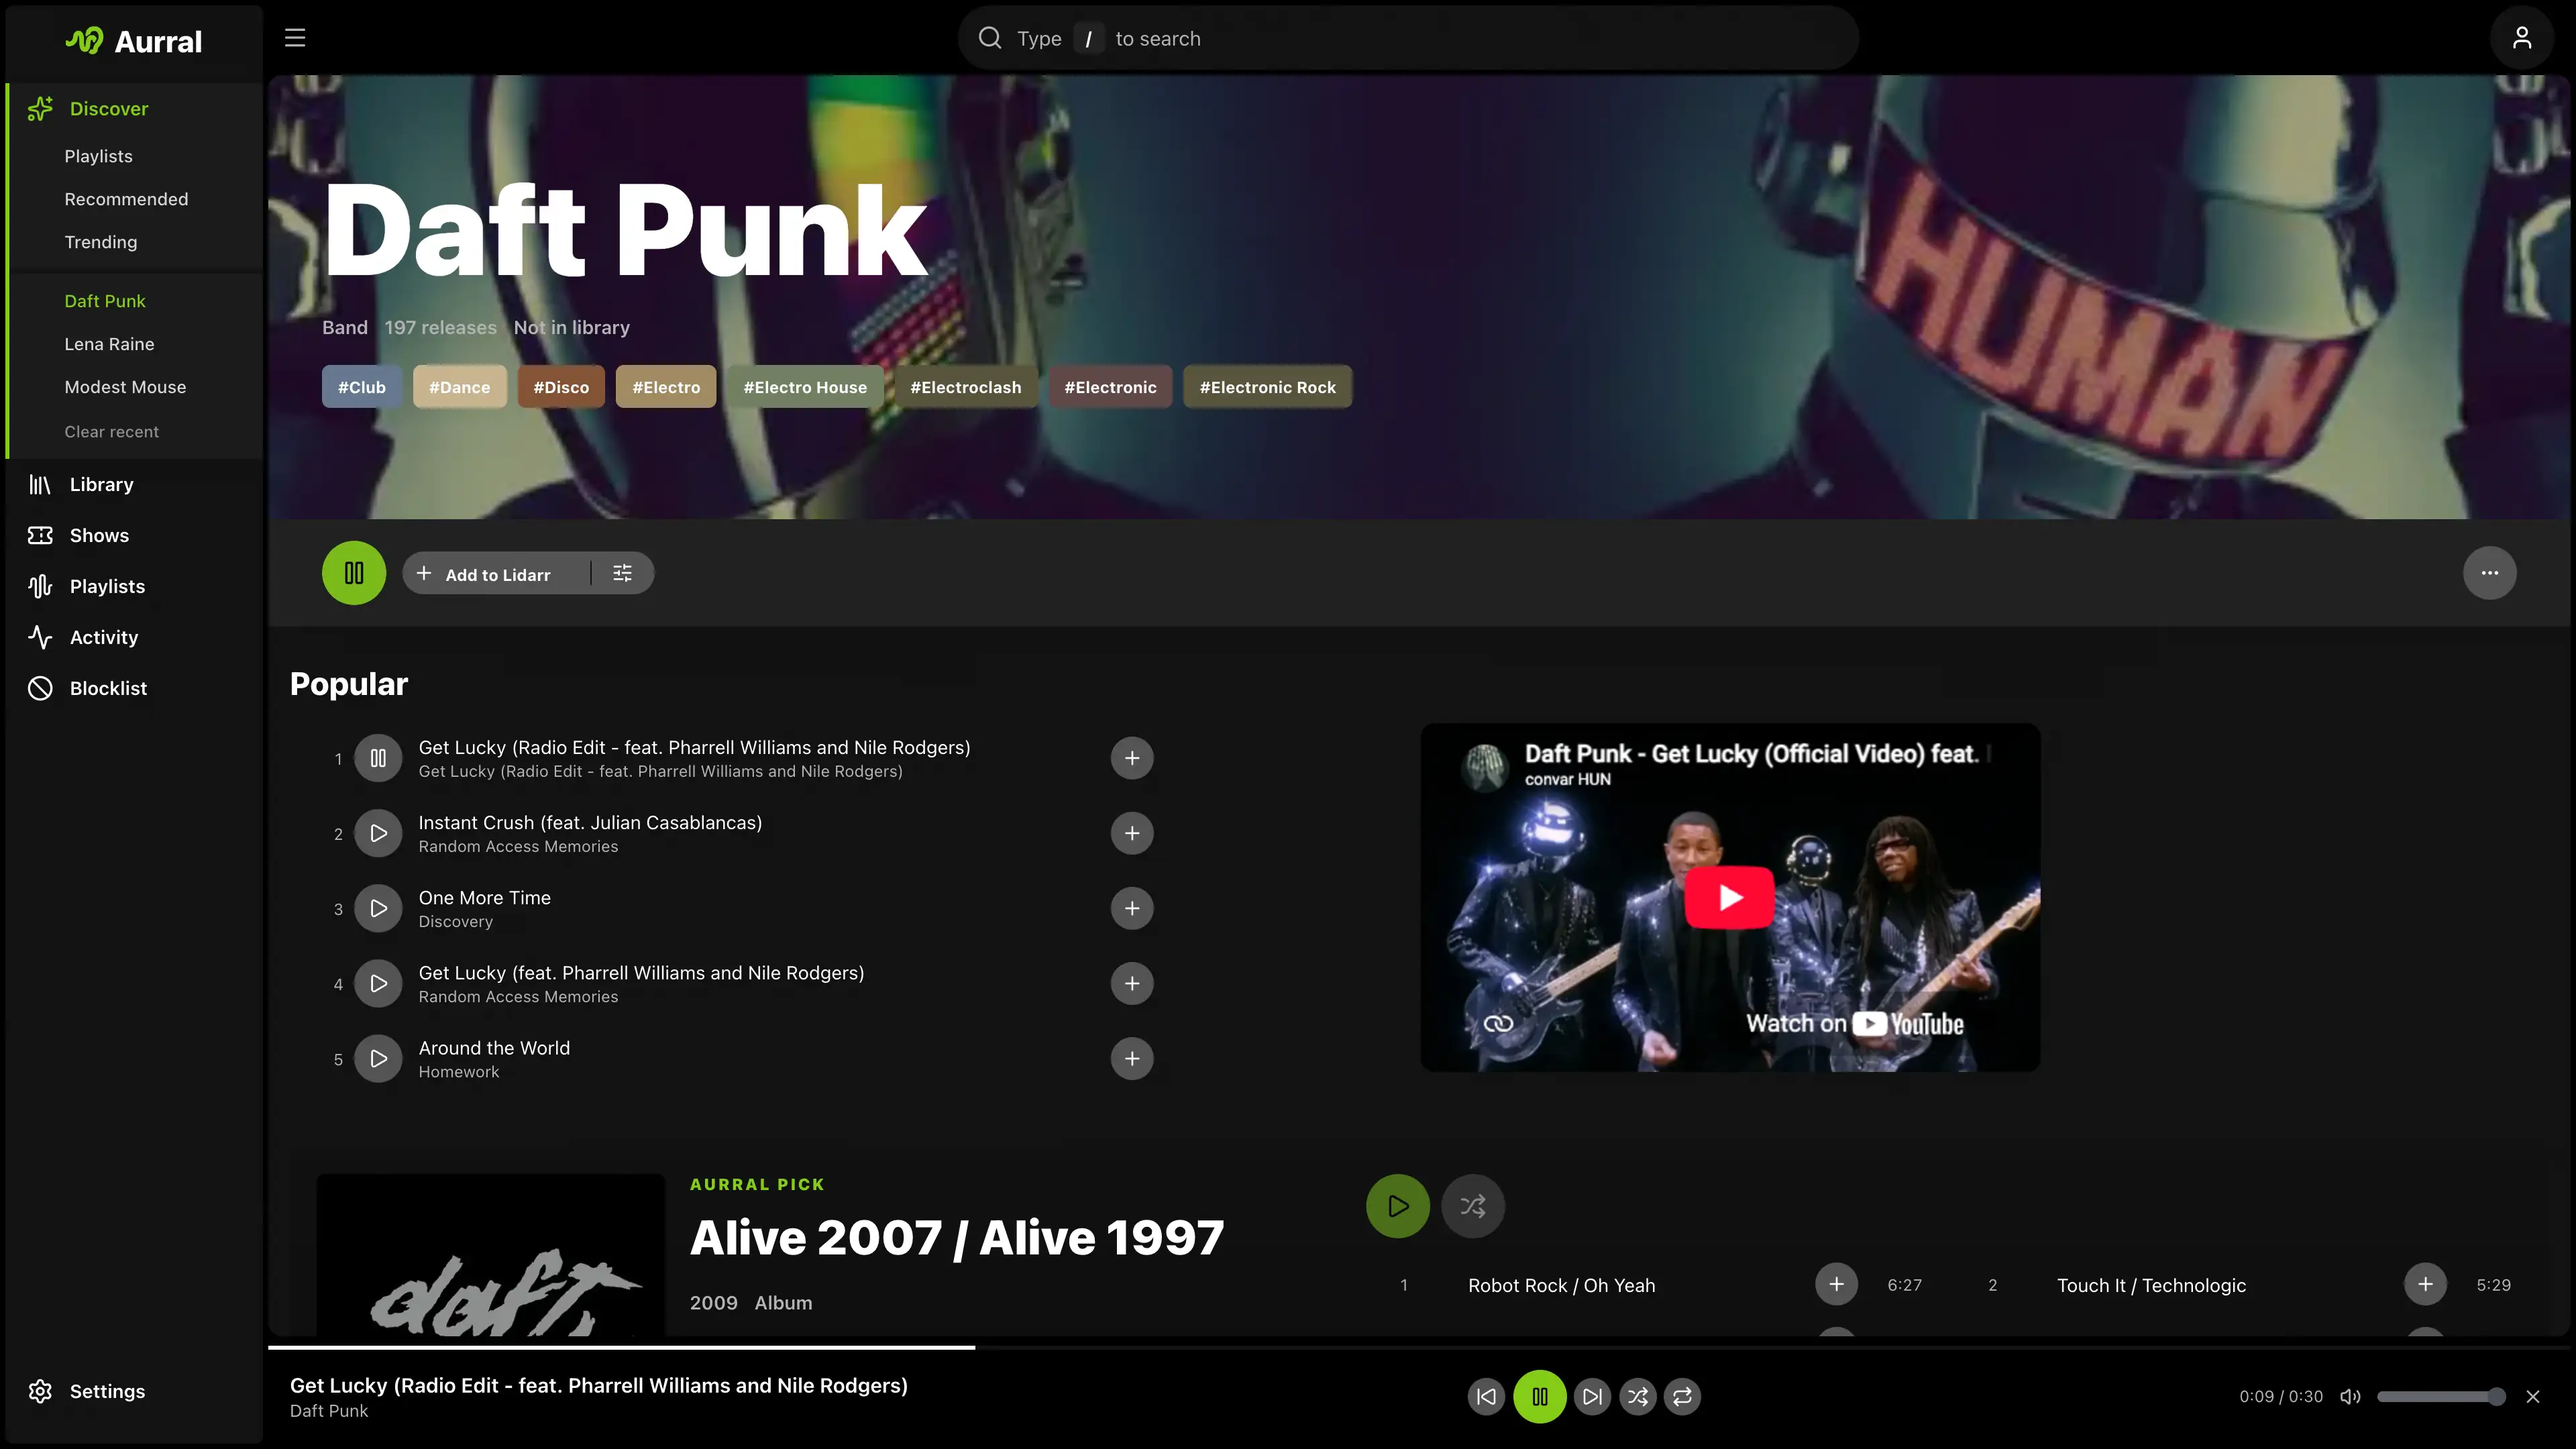
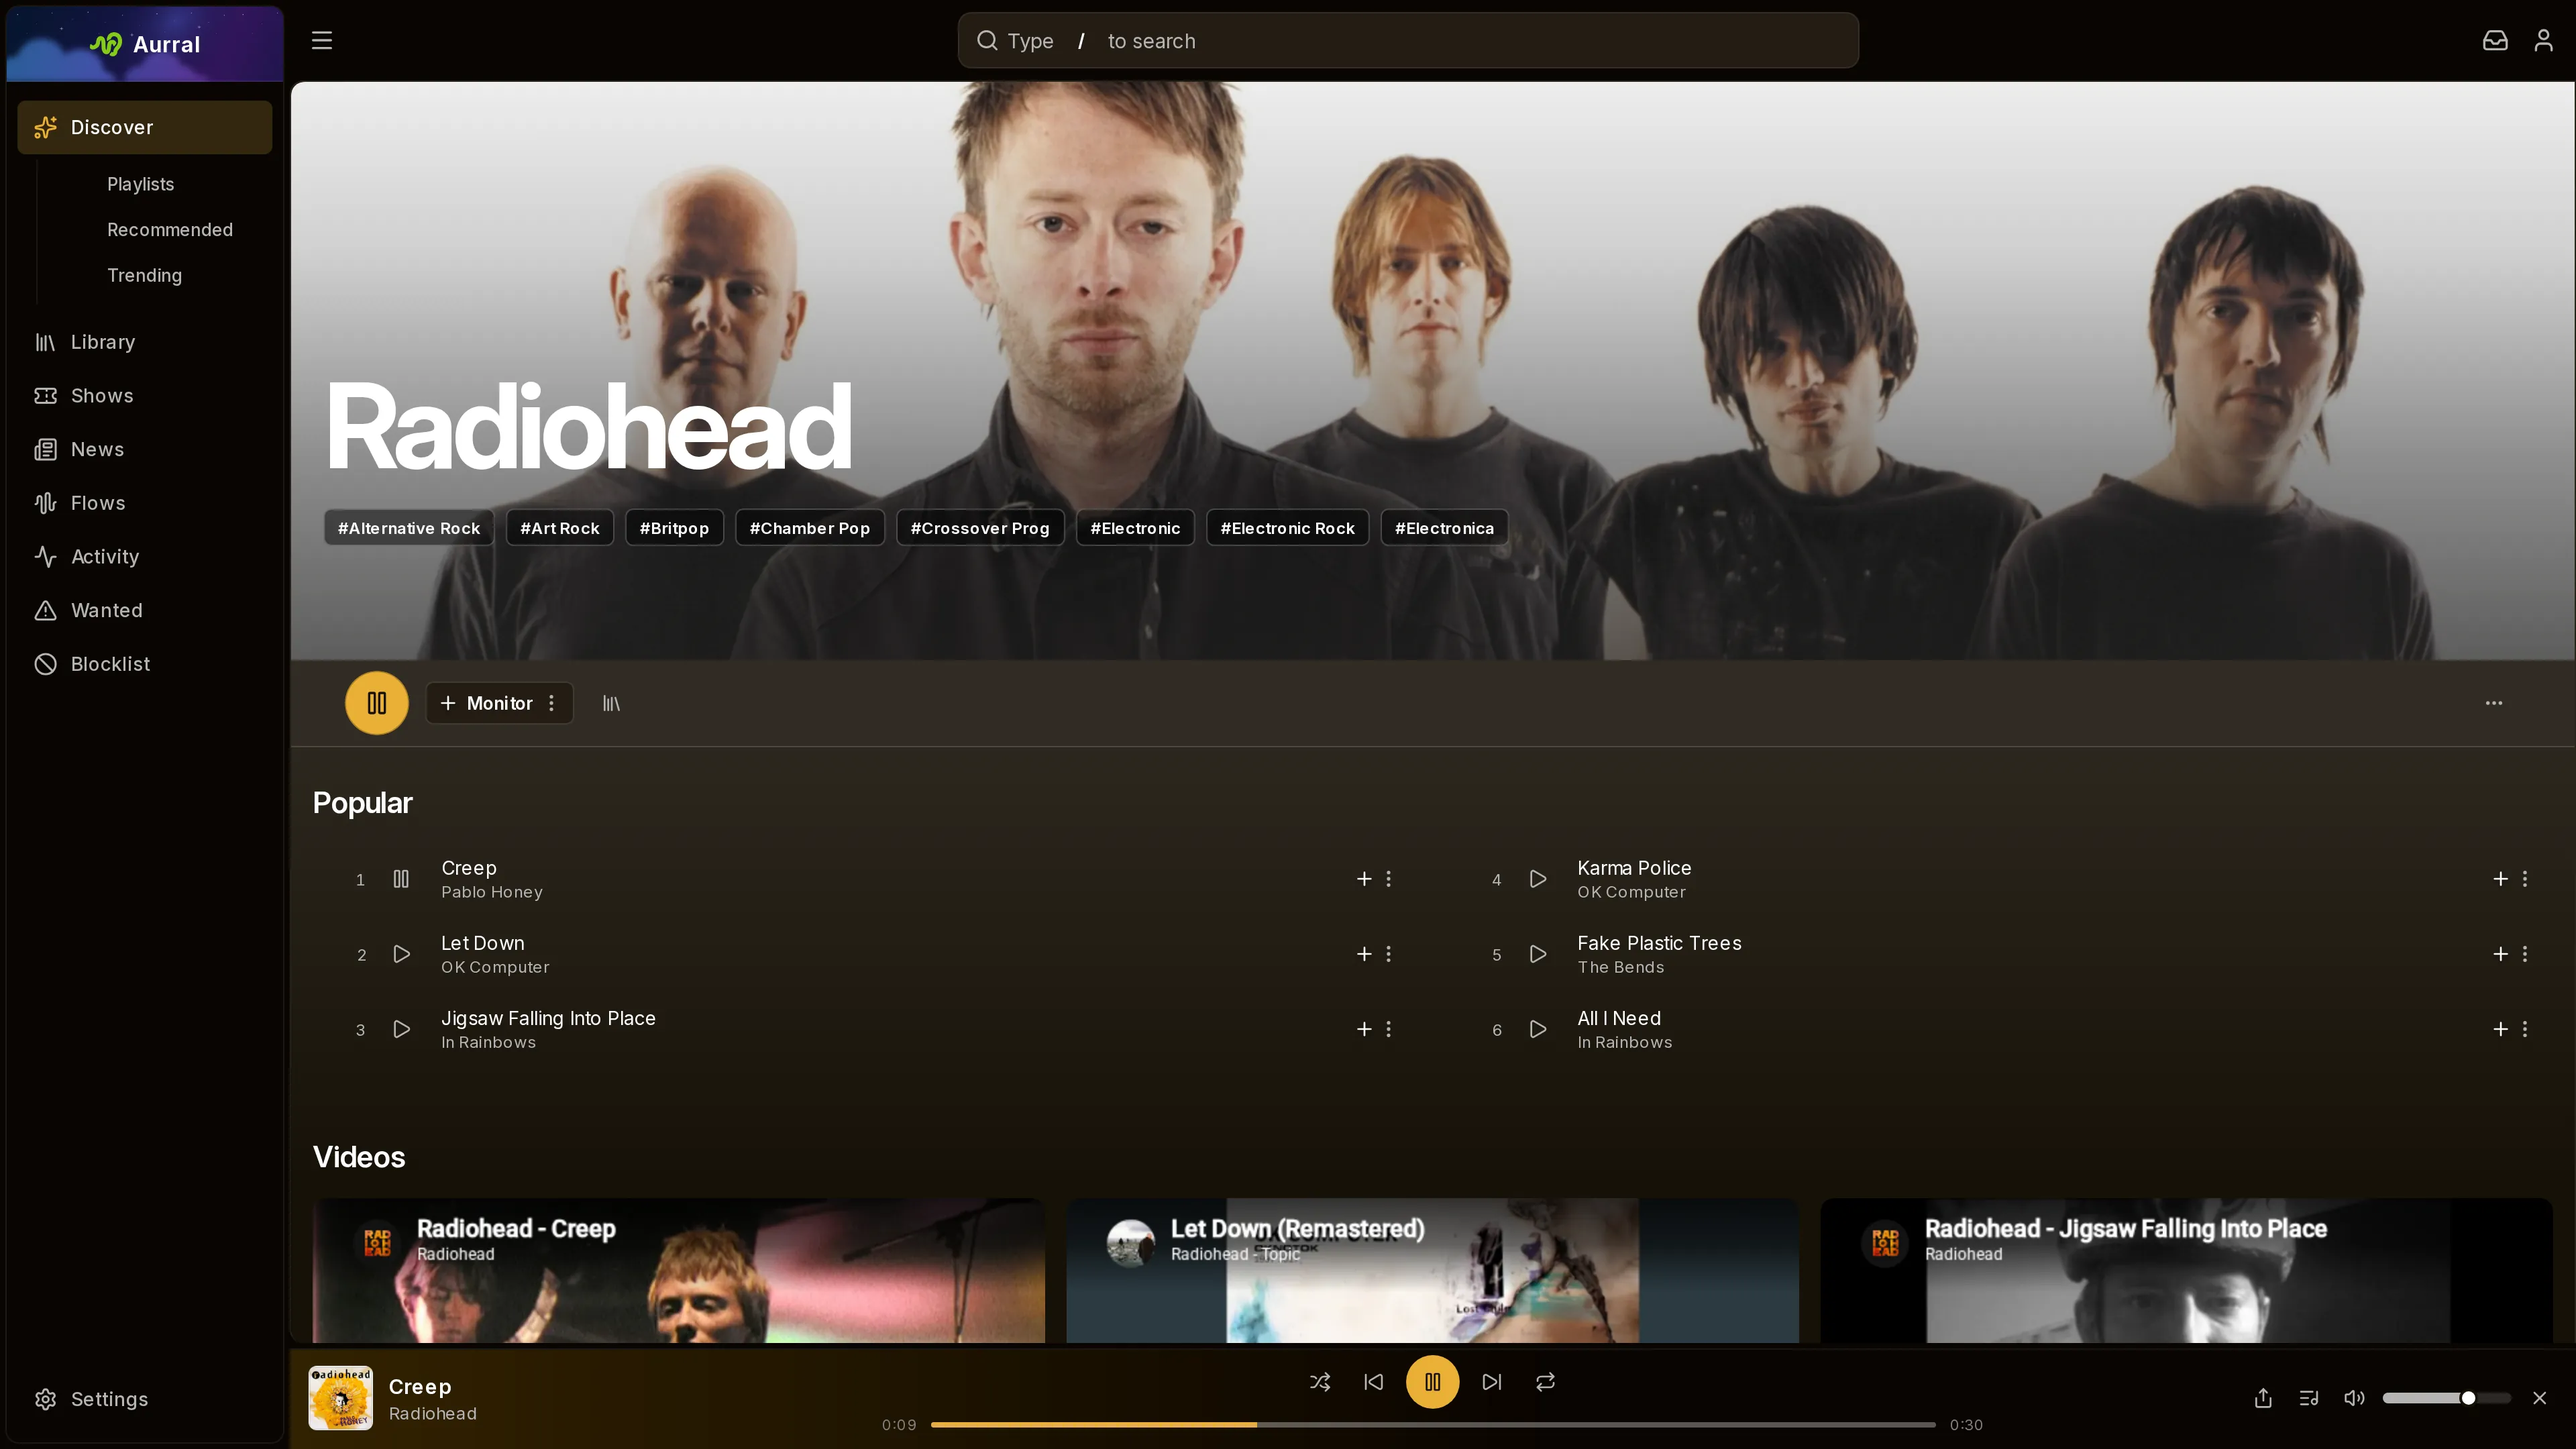
docs: refresh screenshots and add Inbox, Library, News, and Themes image
- Retake the docs and marketing screenshots to match the current UI
- Add images for Inbox, Library, News, and Themes to the user docs
- Show the Themes screenshot on the Profile section of the overview
- Update aurral.org image alt text to match the new screenshots

diff --git a/web/index.html b/web/index.html
@@ -843,7 +843,7 @@
             width="3840"
             height="2160"
             fetchpriority="high"
-            alt="The Aurral Discover page with recently added artists, playlists made for the listener, and upcoming releases"
+            alt="The Aurral Discover page with top tags, recently added artists, and playlists"
           />
         </figure>
       </div>
@@ -911,7 +911,7 @@
               width="3840"
               height="2160"
               loading="lazy"
-              alt="An Aurral artist page for Daft Punk with popular tracks, an Aurral pick, and the player"
+              alt="An Aurral artist page for Radiohead with popular tracks, videos, and the player"
             />
           </figure>
           <a class="link" href="https://docs.aurral.org/using/discover/"
@@ -956,7 +956,7 @@
               width="3840"
               height="2160"
               loading="lazy"
-              alt="The Aurral playlists page showing a playlist called Late Night Drive and its tracklist"
+              alt="An Aurral playlist called Indie Sleaze and its tracklist"
             />
           </figure>
           <a class="link" href="https://docs.aurral.org/using/playlists/"
